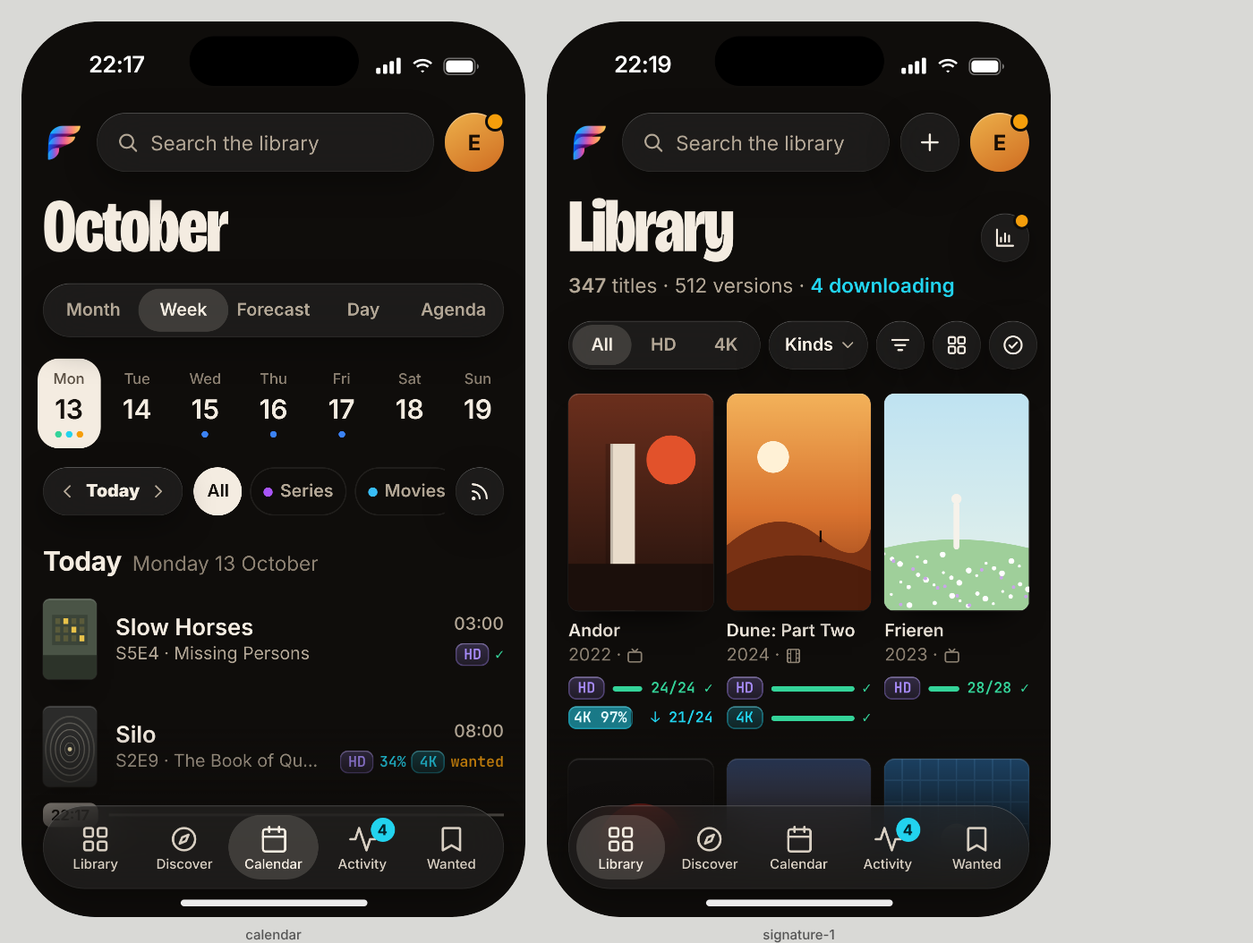
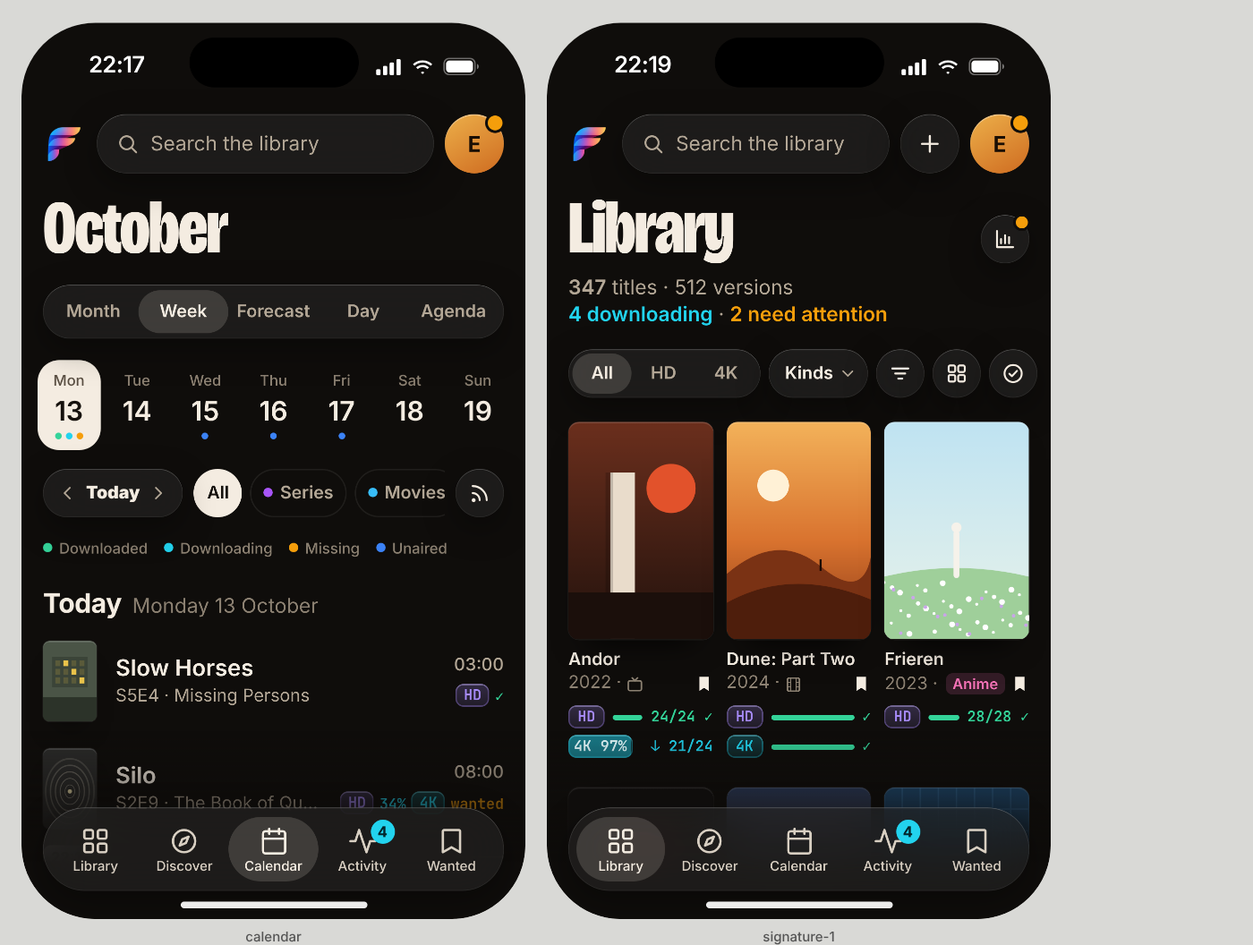
Redesign: restore every per-item web field, progressive disclosure for downloads
Activity download cards show progress, size, speed and ETA at a glance and
expand in place to the release name, client, indexer, protocol, state and
queued time. Pipeline card, Up next stepper, Library monitor bookmark, Anime
tag, Wanted, needs-attention, and the detail Versions controls are restored.

Claude-Session: https://claude.ai/code/session_014m8GXGta1yoU5Fnz4ZUVLk

diff --git a/docs/design/redesign/mockup.html b/docs/design/redesign/mockup.html
@@ -14,7 +14,7 @@
 <section class="screen" data-name="library" data-kind="core" data-theme="dark" data-time="22:14" data-palette="identity" data-build="library" data-andor="62"></section>
 
 <!-- 2. Detail: Andor, as the large sheet over Library -->
-<section class="screen detail" data-name="detail" data-kind="detail" data-theme="dark" data-time="22:15" data-palette="identity">
+<section class="screen detail" data-name="detail" data-kind="detail" data-theme="dark" data-time="22:15" data-palette="identity" data-tall>
   <div class="sheet" data-system>
     <div class="hero" data-poster="andor"><div class="hero-fade"></div></div>
     <div class="sheet-bar">
@@ -24,7 +24,7 @@
     <div class="dscroll" data-scrolls>
       <div class="d-head">
         <span class="status-chip">Ended</span>
-        <h1 class="display d-title">Andor <span class="yr">2022</span></h1>
+        <div class="d-titlerow"><h1 class="display d-title">Andor <span class="yr">2022</span></h1><div class="rb glass on" data-icon="bookmark" title="Monitored"></div></div>
         <p class="tagline">Every rebellion starts somewhere.</p>
         <p class="d-meta">Series · 2 versions · 24 episodes · <b>★ 8.4</b> · TV-14</p>
         <div class="genres"><span>Sci-Fi</span><span>Drama</span><span>Thriller</span></div>
@@ -34,25 +34,33 @@
       <div class="rail" data-scrolls>
         <div class="primary"><span data-icon="magnifier"></span>Automatic search</div>
         <div class="rb glass" data-icon="person" title="Interactive search"></div>
-        <div class="rb glass" data-icon="refresh" title="Refresh"></div>
+        <div class="rb glass" data-icon="tray" title="Manual search / import"></div>
+        <div class="rcaret glass"><span data-icon="refresh"></span><span data-icon="down"></span></div>
         <div class="rb glass" data-icon="ellipsis" title="More: Preview rename, Manage episodes, Report an issue, Edit, Delete"></div>
       </div>
 
-      <div class="section-h">Versions <span>2 versions · 118.6 GB on disk</span></div>
+      <div class="section-h">Versions <span>2 versions · 1 complete · 118.6 GB</span></div>
+      <div class="vhead">
+        <div class="foot-bar"><i style="flex:61.2;background:var(--hd)"></i><i style="flex:57.4;background:var(--uhd)"></i></div>
+        <span class="scope">Tabs show <b>all versions</b></span>
+      </div>
+      <div class="vacts"><span><i data-icon="magnifier"></i>Search all</span><span><i data-icon="plus"></i>Add version</span></div>
       <div class="versions">
         <div class="obj ver">
           <div class="vtop"><span class="ed ed-hd lg">HD·1080p</span><span class="vsize num">61.2 GB</span></div>
           <div class="vline">24 of 24 on disk · best quality reached</div>
+          <div class="qchips"><span>WEBDL-1080p</span><span>DDP5.1</span><span>x264</span><span>CF +1250</span><i class="vs" data-icon="magnifier"></i></div>
           <div class="meter"><i style="width:100%;background:var(--done)"></i></div>
         </div>
         <div class="obj ver">
           <div class="vtop"><span class="ed ed-uhd lg">UHD·4K</span><span class="vsize num">57.4 GB</span></div>
           <div class="vline"><b class="c-grab">↓ S2E10 at 62%</b> · 21 of 24 on disk · 2 missing</div>
+          <div class="qchips"><span>WEBDL-2160p</span><span>DV HDR10</span><span>Atmos</span><span>CF +2100</span><i class="vs" data-icon="magnifier"></i></div>
           <div class="meter"><i style="width:87.5%;background:var(--done)"></i><i style="width:4.2%;background:var(--grab)"></i><i style="width:8.3%;background:var(--miss)"></i></div>
         </div>
       </div>
 
-      <div class="tabs-u"><span class="on">Seasons</span><span>Files</span><span>History</span><span>Searches</span></div>
+      <div class="tabs-u" data-scrolls><span>Overview</span><span class="on">Seasons</span><span>Files</span><span>History</span><span>Searches</span></div>
       <div class="season">
         <div class="s-h"><b>Season 2</b><span class="num">12 episodes · 9 of 12 in 4K</span><span class="sv" data-icon="down"></span></div>
         <div class="ep">
@@ -98,15 +106,16 @@
   </div>
 </section>
 
-<!-- 4. Activity: Queue -->
-<section class="screen activity" data-name="activity" data-kind="list" data-theme="dark" data-time="22:16" data-palette="identity">
+<!-- 4. Activity: Queue (the whole scrolling page) -->
+<section class="screen activity" data-name="activity" data-kind="list" data-theme="dark" data-time="22:16" data-palette="identity" data-tall>
   <div class="body">
     <div class="topbar">
       <img class="logo" src="fusionha-logo.png" alt="fusionha">
-      <div class="pill glass"><span class="ic" data-icon="search"></span>Search activity</div>
+      <div class="pill glass"><span class="ic" data-icon="search"></span>Search by title</div>
       <div class="avatar">E<span class="dot"></span></div>
     </div>
     <div class="title-row"><h1 class="display page-title">Activity</h1><div class="mi glass"><span data-icon="tray"></span>Manual import</div></div>
+    <p class="caption"><b style="color:var(--grab)">4 downloading</b> · live</p>
     <div class="segs" data-scrolls>
       <span class="on">Queue <em>4</em></span><span>History</span><span>Blocklist</span><span>Tasks</span><span>Audit</span><span>Indexers</span>
     </div>
@@ -114,28 +123,58 @@
       <div class="bw">
         <div class="bw-num display num">41.6<small>MB/s</small></div>
         <div class="bw-side"><b class="num">3.2 GB left</b><span>4 in queue · ends 22:24</span></div>
-        <div class="pipe"><b>Pipeline</b><span>1 job queued · step 1 of 6</span><div class="steps"><i class="on"></i><i></i><i></i><i></i><i></i><i></i></div></div>
         <svg class="spark" viewBox="0 0 370 44" preserveAspectRatio="none" aria-hidden="true"><path d="M0 34 L20 30 40 32 60 22 80 26 100 18 120 20 140 12 160 16 180 9 200 14 220 8 240 12 260 6 280 10 300 7 320 11 340 5 370 8" fill="none" stroke="#22D3EE" stroke-width="2" stroke-linejoin="round"/><path d="M0 34 L20 30 40 32 60 22 80 26 100 18 120 20 140 12 160 16 180 9 200 14 220 8 240 12 260 6 280 10 300 7 320 11 340 5 370 8 V44 H0Z" fill="#F4ECE1" opacity=".05"/></svg>
       </div>
 
-      <div class="group-h">Downloading <span>2</span><div class="qtools"><span class="g36 glass" data-icon="refresh"></span><span class="g36 glass warn" data-icon="trash"></span><span class="g36 glass" data-icon="select"></span></div></div>
-      <div class="obj q">
-        <div class="q-poster poster" data-poster="andor"></div>
-        <div class="q-main">
-          <b>Andor</b><span class="q-sub">S02E10 · Make It Stop</span>
-          <div class="q-meta"><span class="pair"><span class="ed ed-uhd">4K</span><b class="st c-grab">62%</b></span><span class="num">28.4 MB/s · 3 min</span></div>
-          <div class="meter"><i style="width:62%;background:var(--grab)"></i></div>
-        </div>
-        <div class="q-more" data-icon="ellipsis"></div>
+      <div class="obj pipe-card">
+        <div class="pc-top"><b>Pipeline</b><span>1 job queued · <em>3 downloading</em> · 41.6 MB/s</span></div>
+        <div class="pc-step"><b class="display">Step 1<small>/6</small></b><span>Queued</span></div>
+        <div class="pc-bar"><i class="on"></i><i></i><i></i><i></i><i></i><i></i></div>
+        <div class="pc-stages"><span class="on">Queued</span><span>Parsing</span><span>Processed</span><span>Linking</span><span>Caching</span><span>Importing</span></div>
+        <p class="pc-note">Symlink jobs finish in seconds, so there's no ETA.</p>
       </div>
-      <div class="obj q">
-        <div class="q-poster poster" data-poster="severance"></div>
-        <div class="q-main">
-          <b>Severance</b><span class="q-sub">S02E01 · Hello, Ms. Cobel</span>
-          <div class="q-meta"><span class="pair"><span class="ed ed-hd">HD</span><b class="st c-grab">18%</b></span><span class="num">9.1 MB/s · 6 min</span></div>
-          <div class="meter"><i style="width:18%;background:var(--grab)"></i></div>
+
+      <div class="group-h">Downloading <span>2</span><div class="qtools"><span class="g36 glass" data-icon="refresh"></span><span class="g36 glass warn" data-icon="trash"></span><span class="g36 glass" data-icon="select"></span></div></div>
+      <div class="obj dl open" style="--p:64%">
+        <div class="dl-head">
+          <div class="ring" style="--p:64"><div class="q-poster poster" data-poster="andor"></div></div>
+          <div class="dl-t"><b>Andor</b><span>S02E10 · Make It Stop</span><span class="ed ed-uhd">UHD·4K</span></div>
+          <b class="dl-pct display num">64%</b>
         </div>
-        <div class="q-more" data-icon="ellipsis"></div>
+        <div class="meter"><i style="width:64%;background:var(--grab)"></i></div>
+        <p class="dl-line num"><b>5.0 of 7.8 GB</b> · 28.4 MB/s · 3 min left</p>
+        <p class="rel" data-ugc>Andor.S02E10.2160p.DSNP.WEB-DL.DDP5.1.Atmos.DV.HDR.H.265-FLUX</p>
+        <dl class="spec">
+          <div><dt>Size</dt><dd>7.8 GB</dd></div><div><dt>Client</dt><dd>qBittorrent</dd></div>
+          <div><dt>Indexer</dt><dd>Torznab</dd></div><div><dt>Protocol</dt><dd>torrent</dd></div>
+          <div><dt>State</dt><dd class="c-grab">downloading</dd></div><div><dt>Queued</dt><dd>1h ago</dd></div>
+        </dl>
+        <div class="dl-acts">
+          <span><i data-icon="person"></i>Interactive search</span>
+          <span><i data-icon="ellipsis"></i>More</span>
+          <span class="danger"><i data-icon="trash"></i>Remove</span>
+        </div>
+      </div>
+      <div class="obj dl" style="--p:18%">
+        <div class="dl-head">
+          <div class="ring" style="--p:18"><div class="q-poster poster" data-poster="severance"></div></div>
+          <div class="dl-t"><b>Severance</b><span>S02E01 · Hello, Ms. Cobel</span><span class="ed ed-hd">HD·1080p</span></div>
+          <b class="dl-pct display num">18%</b>
+        </div>
+        <div class="meter"><i style="width:18%;background:var(--grab)"></i></div>
+        <p class="dl-line num"><b>0.6 of 3.1 GB</b> · 9.1 MB/s · 6 min left</p>
+        <p class="dl-src">qBittorrent · Nyaa · torrent · queued 12 min ago <span class="chev" data-icon="down"></span></p>
+      </div>
+
+      <div class="group-h">Up next <span>1</span></div>
+      <div class="obj dl next">
+        <div class="dl-head">
+          <div class="q-poster poster" data-poster="silo"></div>
+          <div class="dl-t"><b>Silo</b><span>S02E04 · Barricade</span><span class="ed ed-uhd">UHD·4K</span></div>
+          <div class="q-more" data-icon="ellipsis"></div>
+        </div>
+        <div class="stepper"><span class="on">Downloading</span><i></i><span>Linking</span><i></i><span>Caching</span><i></i><span>Importing</span></div>
+        <p class="dl-meta">Waiting to start…</p>
       </div>
 
       <div class="group-h">Held <span>1</span></div>
@@ -178,6 +217,7 @@
       <div class="g36 glass" data-icon="feed"></div>
     </div>
     <div class="agenda" data-scrolls>
+      <div class="legend"><span><i style="background:var(--done)"></i>Downloaded</span><span><i style="background:var(--grab)"></i>Downloading</span><span><i style="background:var(--miss)"></i>Missing</span><span><i style="background:var(--unaired)"></i>Unaired</span></div>
       <div class="day-h" data-proper>Today <span>Monday 13 October</span></div>
       <div class="ev"><div class="ev-p poster" data-poster="slowhorses"></div>
         <div class="ev-t"><b>Slow Horses</b><span>S5E4 · Missing Persons</span></div>
@@ -192,7 +232,7 @@
         <div class="ev-r"><span class="num">02:00</span><div class="eds"><span class="ed ed-hd">HD</span></div></div></div>
       <div class="day-h" data-proper>Thursday <span>16 October</span></div>
       <div class="ev"><div class="ev-p poster" data-poster="frieren"></div>
-        <div class="ev-t"><b>Frieren</b><span>S2E2 · simulcast</span></div>
+        <div class="ev-t"><b>Frieren</b><span>S2E2 · simulcast · <em class="an">Anime</em></span></div>
         <div class="ev-r"><span class="num">16:30</span><div class="eds"><span class="ed ed-hd">HD</span></div></div></div>
     </div>
   </div>

diff --git a/docs/design/redesign/screens.css b/docs/design/redesign/screens.css
@@ -55,7 +55,7 @@
 .vtop { display: flex; justify-content: space-between; align-items: center; }
 .vsize { font: 600 15px var(--sf); }
 .vline { font: 400 15px/1.3 var(--sf); color: var(--ink-2); margin: 10px 0 12px; }
-.tabs-u { display: flex; gap: 22px; margin: 28px 16px 0; padding-bottom: 10px; border-bottom: 1px solid var(--hair); font: 600 15px var(--sf); color: var(--ink-3); position: relative; }
+.tabs-u { display: flex; gap: 22px; white-space: nowrap; overflow: hidden; margin: 28px 16px 0; padding-bottom: 10px; border-bottom: 1px solid var(--hair); font: 600 15px var(--sf); color: var(--ink-3); position: relative; }
 .tabs-u .on { color: var(--ink); position: relative; }
 .tabs-u .on::after { content: ""; position: absolute; left: 0; right: 0; bottom: -11px; height: 2px; border-radius: 1px; background: var(--ink); }
 .season { padding: 4px 16px 60px; }
@@ -170,3 +170,92 @@
   .screen .rail-row .ed.fill ~ .rc { margin-left: auto; }
 }
 .msheet.glass { background: #1E1A16 !important; backdrop-filter: none !important; }
+
+/* ---------- Whole-page (data-tall) screens: content flows, nothing clips ---------- */
+.screen[data-tall] .body { position: relative; inset: auto; padding-top: var(--safe-top); padding-bottom: 130px; }
+.screen[data-tall] [data-scrolls] { overflow: visible; flex: none; }
+.screen[data-tall] .segs, .screen[data-tall] .tabs-u { overflow: hidden; }
+
+/* ---------- Activity download card (web parity: every field) ---------- */
+.pipe-card { padding: 16px 18px; margin-top: 22px; }
+.pc-top { display: flex; flex-direction: column; gap: 2px; font: 400 13px/1.35 var(--sf); color: var(--ink-2); }
+.pc-top b { font: 700 17px var(--sf); color: var(--ink); }
+.pc-top em { font-style: normal; color: var(--grab); font-weight: 600; }
+.pc-step { display: flex; align-items: baseline; gap: 10px; margin-top: 12px; }
+.pc-step b { font-size: 34px; line-height: 1; letter-spacing: -.5px; }
+.pc-step b small { color: var(--ink-3); font-size: 34px; }
+.pc-step span { font: 500 13px var(--sf); color: var(--ink-2); }
+.pc-bar { display: flex; gap: 4px; margin-top: 12px; }
+.pc-bar i { flex: 1; height: 5px; border-radius: 3px; background: rgba(244,236,225,.12); }
+.pc-bar i.on { background: var(--grab); }
+.pc-stages { display: flex; justify-content: space-between; margin-top: 8px; font: 500 11px var(--sf); color: var(--ink-3); }
+.pc-stages .on { color: var(--grab); font-weight: 700; }
+.pc-note { font: 400 13px var(--sf); color: var(--ink-3); margin: 12px 0 0; }
+.dl { padding: 14px 16px 14px; margin-bottom: 12px;
+  background: linear-gradient(90deg, rgba(34,211,238,.07) var(--p, 0%), transparent var(--p, 0%)), linear-gradient(180deg, #1D1A16, #181512); }
+.dl-head { display: flex; gap: 14px; align-items: flex-start; }
+.ring { position: relative; flex: none; width: 54px; }
+.ring .q-poster { width: 54px; }
+.ring b { position: absolute; top: -8px; right: -8px; width: 26px; height: 26px; border-radius: 13px; display: grid; place-items: center; font: 700 11px var(--sf); color: var(--ink);
+  background: radial-gradient(closest-side, #1A1714 72%, transparent 74%), conic-gradient(var(--grab) calc(var(--p) * 1%), rgba(244,236,225,.15) 0); }
+.dl-t { flex: 1; min-width: 0; display: flex; flex-direction: column; align-items: flex-start; gap: 3px; }
+.dl-t b { font: 600 17px/1.25 var(--sf); }
+.dl-t > span:not(.ed) { font: 400 13px var(--sf); color: var(--ink-2); }
+.dl-t .ed { margin-top: 3px; }
+.rel { font: 500 11px/1.4 var(--mono); color: var(--ink-2); margin: 12px 0 0; word-break: break-all; }
+.dl-meta { font: 400 13px/1.4 var(--sf); color: var(--ink-2); margin: 6px 0 12px; }
+.dl-meta em { font-style: normal; color: var(--grab); font-weight: 600; }
+.dl-foot { display: flex; align-items: center; gap: 10px; margin-top: 10px; font: 500 13px var(--sf); color: var(--ink-2); }
+.dl-foot span.num { flex: 1; }
+.dl-foot b { font-size: 28px; line-height: 1; color: var(--grab); }
+.dl-foot .g36 { color: var(--ink-2); }
+.next .stepper { display: flex; align-items: center; gap: 6px; margin: 14px 0 0; font: 600 12px var(--sf); color: var(--ink-3); }
+.next .stepper i { flex: 1; height: 1px; background: var(--hair); }
+.next .stepper .on { color: var(--grab); }
+.next .dl-meta { margin-bottom: 0; }
+
+/* Progressive disclosure: compact by default, every web field one tap away. */
+.dl .ring b { display: none; }
+.ring::after { content: ""; position: absolute; inset: -4px; border-radius: 9px; pointer-events: none;
+  background: conic-gradient(var(--grab) calc(var(--p) * 1%), rgba(244,236,225,.12) 0);
+  -webkit-mask: linear-gradient(#000 0 0) content-box, linear-gradient(#000 0 0); -webkit-mask-composite: xor; mask-composite: exclude; padding: 2px; }
+.dl-pct { font-size: 34px; line-height: 1; color: var(--grab); letter-spacing: -.5px; flex: none; align-self: center; }
+.dl .meter { margin-top: 14px; }
+.dl-line { font: 400 13px var(--sf); color: var(--ink-2); margin: 10px 0 0; }
+.dl-line b { color: var(--ink); font-weight: 600; }
+.dl-src { display: flex; align-items: center; gap: 6px; font: 400 13px var(--sf); color: var(--ink-3); margin: 4px 0 0; }
+.dl-src .chev { width: 16px; height: 16px; margin-left: auto; color: var(--ink-2); }
+.dl.open .rel { padding-top: 14px; border-top: 1px solid var(--hair); margin-top: 14px; }
+.spec { display: grid; grid-template-columns: 1fr 1fr; gap: 10px 16px; margin: 14px 0 0; }
+.spec div { display: flex; flex-direction: column; gap: 2px; }
+.spec dt { font: 500 11px var(--sf); color: var(--ink-3); }
+.spec dd { margin: 0; font: 500 15px var(--sf); }
+.dl-acts { display: flex; gap: 8px; margin-top: 16px; }
+.dl-acts span { white-space: nowrap; height: 40px; padding: 0 12px; border-radius: 20px; display: flex; align-items: center; gap: 6px; font: 600 13px var(--sf); background: rgba(244,236,225,.08); }
+.dl-acts span i { width: 16px; height: 16px; display: block; }
+.dl-acts .danger { color: var(--danger); margin-left: auto; }
+
+/* Detail additions (web parity) */
+.d-titlerow { display: flex; align-items: flex-end; justify-content: space-between; gap: 12px; }
+.rcaret { height: 48px; padding: 0 10px 0 13px; border-radius: 24px; display: flex; align-items: center; gap: 2px; flex: none; }
+.rcaret span:first-child { width: 21px; height: 21px; } .rcaret span:last-child { width: 14px; height: 14px; color: var(--ink-2); }
+.vhead { display: flex; align-items: center; gap: 12px; margin: -2px 16px 10px; }
+.foot-bar { flex: 1; display: flex; gap: 2px; height: 6px; border-radius: 3px; overflow: hidden; }
+.foot-bar i { display: block; }
+.scope { font: 500 13px var(--sf); color: var(--ink-2); padding: 6px 10px; border-radius: 99px; box-shadow: inset 0 0 0 1px var(--hair); white-space: nowrap; }
+.scope b { color: var(--ink); }
+.vacts { display: flex; gap: 8px; margin: 0 16px 12px; }
+.vacts span { height: 36px; padding: 0 12px; border-radius: 18px; display: flex; align-items: center; gap: 6px; font: 600 13px var(--sf); background: rgba(244,236,225,.08); }
+.vacts i { width: 16px; height: 16px; display: block; }
+.qchips { display: flex; flex-wrap: wrap; gap: 6px; align-items: center; margin-top: 12px; }
+.qchips span { font: 500 11px var(--mono); color: var(--ink-2); padding: 3px 6px; border-radius: 5px; background: rgba(244,236,225,.07); }
+.qchips .vs { width: 32px; height: 32px; margin-left: auto; padding: 7px; border-radius: 16px; background: rgba(244,236,225,.08); display: block; }
+.ver .meter { margin-top: 12px; }
+.legend { display: flex; gap: 12px; margin-top: 16px; font: 500 11px var(--sf); color: var(--ink-3); flex-wrap: wrap; }
+.legend span { display: flex; align-items: center; gap: 5px; }
+.legend i { width: 7px; height: 7px; border-radius: 4px; display: block; }
+.an { font-style: normal; color: var(--anime); }
+.screen.detail[data-tall] .sheet { position: relative; inset: auto; margin-top: 56px; }
+.screen.detail[data-tall] .dscroll { position: relative; inset: auto; -webkit-mask-image: none; mask-image: none; }
+.screen.detail[data-tall] .rail { flex-wrap: nowrap; overflow: hidden; }
+.screen.detail[data-tall] .rail { -webkit-mask-image: linear-gradient(90deg, #000 82%, transparent); mask-image: linear-gradient(90deg, #000 82%, transparent); }

diff --git a/docs/design/redesign/build.js b/docs/design/redesign/build.js
@@ -7,7 +7,7 @@
   const items = (sig) => [
     ["andor", "Andor", 2022, "tv", [["HD", "done", 24, 24], sig === "landed" ? ["4K", "grab", 22, 24, 0, "landed"] : ["4K", "grab", 21, 24, sig]]],
     ["dune", "Dune: Part Two", 2024, "film", [["HD", "done", 1, 0], ["4K", "done", 1, 0]]],
-    ["frieren", "Frieren", 2023, "tv", [["HD", "done", 28, 28]]],
+    ["frieren", "Frieren", 2023, "anime", [["HD", "done", 28, 28]]],
     ["shogun", "Shōgun", 2024, "tv", [["HD", "done", 10, 10], ["4K", "miss", 0, 10]]],
     ["pastlives", "Past Lives", 2023, "film", [["HD", "done", 1, 0]]],
     ["bear", "The Bear", 2022, "tv", [["HD", "upg", 38, 38]]],
@@ -17,8 +17,11 @@
   ];
   const kindGlyph = {
     tv: `<svg viewBox="0 0 16 16" aria-label="Series"><rect x="2" y="4.5" width="12" height="9" rx="1.5" fill="none" stroke="currentColor" stroke-width="1.4"/><path d="M5.5 1.8 8 4.3l2.5-2.5" fill="none" stroke="currentColor" stroke-width="1.4" stroke-linecap="round"/></svg>`,
+    anime: `<svg viewBox="0 0 16 16" aria-label="Anime"><path d="M2 4.5h12M3.5 4.5 3 2.5M12.5 4.5l.5-2M4.5 4.5V14M11.5 4.5V14M4.5 8h7" fill="none" stroke="currentColor" stroke-width="1.4" stroke-linecap="round"/></svg>`,
     film: `<svg viewBox="0 0 16 16" aria-label="Movie"><rect x="2.5" y="2" width="11" height="12" rx="1.5" fill="none" stroke="currentColor" stroke-width="1.4"/><path d="M5.5 2v12M10.5 2v12M2.5 6h3M2.5 10h3M10.5 6h3M10.5 10h3" stroke="currentColor" stroke-width="1.2"/></svg>`,
   };
+  const bmOn = `<svg viewBox="0 0 16 16" aria-label="Monitored"><path d="M4 2h8v12l-4-2.7L4 14Z" fill="currentColor"/></svg>`;
+  const bmOff = `<svg viewBox="0 0 16 16" aria-label="Not monitored"><path d="M4 2h8v12l-4-2.7L4 14Z" fill="none" stroke="currentColor" stroke-width="1.4" stroke-linejoin="round"/></svg>`;
   const mark = { done: "✓", grab: "↓", miss: "", upg: "↑" };
   const rail = ([tier, s, have, total, inflight, landed]) => {
     const t = tier === "4K" ? "uhd" : "hd";
@@ -30,10 +33,10 @@
     const count = total ? `${have}/${total}` : "";
     const st = landed ? "done" : s;
     const cls = s === "grab" && inflight ? " fill" : landed ? " landed" : "";
-    return `<div class="rail-row"><span class="ed ed-${t}${cls}"${cls === " fill" ? ` style="--p:${inflight}%"` : ""}>${tier}${cls === " fill" ? ` ${inflight}%` : ""}</span><span class="rbar">${bar}</span><span class="rc rc-${st}${landed ? " rolled" : ""}">${s === "grab" && !landed ? "↓ " : ""}${count}${s !== "grab" || landed ? (mark[st] ? ` ${mark[st]}` : (s === "miss" ? "missing" : "")) : ""}</span></div>`;
+    return `<div class="rail-row"><span class="ed ed-${t}${cls}"${cls === " fill" ? ` style="--p:${inflight}%"` : ""}>${tier}${cls === " fill" ? ` ${inflight}%` : ""}</span><span class="rbar">${bar}</span><span class="rc rc-${st}${landed ? " rolled" : ""}">${s === "grab" && !landed ? "↓ " : ""}${count}${s !== "grab" || landed ? (mark[st] ? ` ${mark[st]}` : (s === "miss" ? "Wanted" : "")) : ""}</span></div>`;
   };
   const grid = (sig) => items(sig).map(([k, t, y, kind, vs]) =>
-    `<div class="cell"><div class="poster" data-poster="${k}"></div><div class="t">${t}</div><div class="y">${y} · ${kindGlyph[kind]}</div><div class="rails">${vs.map(rail).join("")}</div></div>`).join("");
+    `<div class="cell"><div class="poster" data-poster="${k}"></div><div class="t">${t}</div><div class="y">${y} · ${kind === "anime" ? `<span class="anime">Anime</span>` : kindGlyph[kind]}<span class="mon${k === "pastlives" ? "" : " on"}">${k === "pastlives" ? bmOff : bmOn}</span></div><div class="rails">${vs.map(rail).join("")}</div></div>`).join("");
 
   const library = (sig) => {
     const landed = sig === "landed";
@@ -46,7 +49,7 @@
         <div class="avatar">E<span class="dot"></span></div>
       </div>
       <div class="title-row"><h1 class="display page-title">Library</h1><div class="g36 glass" data-icon="chart"><b class="adot"></b></div></div>
-      <p class="caption"><b>347</b> titles · 512 versions · <b style="color:var(--grab)">${downloading} downloading</b></p>
+      <p class="caption"><b>347</b> titles · 512 versions<br><b style="color:var(--grab)">${downloading} downloading</b> · <span class="attn">2 need attention</span></p>
       <div class="tools">
         <div class="tier glass" data-system><span class="on">All</span><span>HD</span><span>4K</span></div>
         <div class="kmenu glass"><span class="full">All kinds</span><span class="short">Kinds</span><span data-icon="down"></span></div>

diff --git a/docs/design/redesign/app.css b/docs/design/redesign/app.css
@@ -53,6 +53,11 @@
 .cell .t { font: 600 13px/1.2 var(--sf); margin-top: 8px; white-space: nowrap; overflow: hidden; text-overflow: ellipsis; }
 .cell .y { display: flex; align-items: center; gap: 4px; font: 400 13px/1.2 var(--sf); color: var(--ink-3); margin-top: 2px; }
 .cell .y svg { width: 13px; height: 13px; }
+.cell .y .anime { font: 600 11px var(--sf); color: var(--anime); background: color-mix(in srgb, var(--anime) 16%, transparent); border-radius: 5px; padding: 1px 5px; margin-left: 2px; }
+.cell .y .mon { margin-left: auto; color: var(--ink-3); display: flex; }
+.cell .y .mon.on { color: var(--ink); }
+.cell .y .mon svg { width: 14px; height: 14px; }
+.attn { color: var(--miss); font-weight: 600; }
 .rails { display: flex; flex-direction: column; gap: 5px; margin-top: 8px; }
 .rail-row { display: flex; align-items: center; gap: 6px; min-width: 0; }
 .rail-row .ed { min-width: 27px; justify-content: center; padding: 3px 4px; flex: none; }

diff --git a/docs/design/redesign/DIRECTION.md b/docs/design/redesign/DIRECTION.md
@@ -44,6 +44,12 @@ Checked against `before/web-mobile-*.png` and brought in line in rounds 3 and 4:
 
 - [x] Library cell: one **rail per version** under the poster (tier chip · bar · have/total with ✓ / ↓ / ↑), plus year · kind glyph. Chips are coloured by **tier** (HD purple `#A78BFA`, 4K cyan `#22D3EE`); the rail carries the status colour.
 - [x] Library header: "N titles · M versions", the stats button (beside the title), the All / HD / 4K segment, the kinds as an "All kinds ▾" menu with counts (the web's kinds bar lives in the stats sheet), Filters, grid / list, Select.
+- [x] **Field-level audit (owner review):** every per-item field the web shows is on the iOS screen, or one tap away:
+  - Activity download card: poster with progress ring, title, SxxEyy · episode, tier chip, big %, bar, transferred / total, speed, ETA, and, on tap (expanded in place), the release name, Size, Client, Indexer, Protocol, State, Queued, plus Interactive search, More (the web's ⋯ menu) and Remove. The web's poster-colour progress wash is kept.
+  - Activity Pipeline card: "1 job queued · 3 downloading · speed", Step n/6, the six named stages, the ETA note. Up next card with the Downloading → Linking → Caching → Importing stepper and "Waiting to start…".
+  - Library card: monitor bookmark (filled / outline, beside the year since iOS keeps art clean), year · kind glyph, Anime tag, the rails with ✓ ↓ ↑ or "Wanted"; "n need attention" in the header.
+  - Detail: the monitor bookmark beside the title, Manual search / import and Refresh ▾ in the action rail, Versions footprint bar, "Tabs show all versions", Search all, Add version, per-version quality / media / CF chips and a per-version search, the Overview tab, Metadata via TMDB.
+  - Calendar: the status legend and the Anime tag.
 - [x] Activity: Manual import, the queue toolbar (refresh, Clear queue, Select) and the Pipeline job line (step n of 6) next to the bandwidth hero.
 - [x] Monitor and in-flight state on the poster: the web shows small corner badges; iOS keeps posters clean (iOS rule), so monitor shows as the filled bookmark in the rail row and in-flight as the rail's ↓.
 - [x] Detail: status chip, title + year, tagline, meta line ending "Metadata via TMDB", genres, overview, the item-action rail (Refresh ▾, Automatic search, Interactive search, Preview rename, Manage files, Report an issue, Edit, Delete) with "applies to all versions", then Versions with "Tabs show".
@@ -122,6 +128,10 @@ Kind accents (movie sky, series purple, anime pink) appear only as the 3pt kind 
 ## Richness
 
 **The posters are the photography.** Grade: they sit on the warm black with a 1pt inner top highlight and a deep falloff shadow, like boxes on a lit shelf. Detail pages bleed the poster to the top edge and fade it into the ground. Nothing is printed on the art. Chips sit under it.
+
+## Dense data: progressive disclosure
+
+The web stacks every field of a download in a tall card. On iPhone the card is **compact by default** (what you check at a glance: progress, size, speed, ETA, and the source on one muted line) and **expands in place** on tap to show the release name, a labelled spec grid and labelled actions. Nothing is removed; the queue still fits on a screen. The same pattern applies to version rows on the detail page (tap to expand the spec grid: root, profile, cutoff, monitoring, files) and is the rule for any web card with more than two lines of metadata.
 
 ## Signature: the chip fills
 
